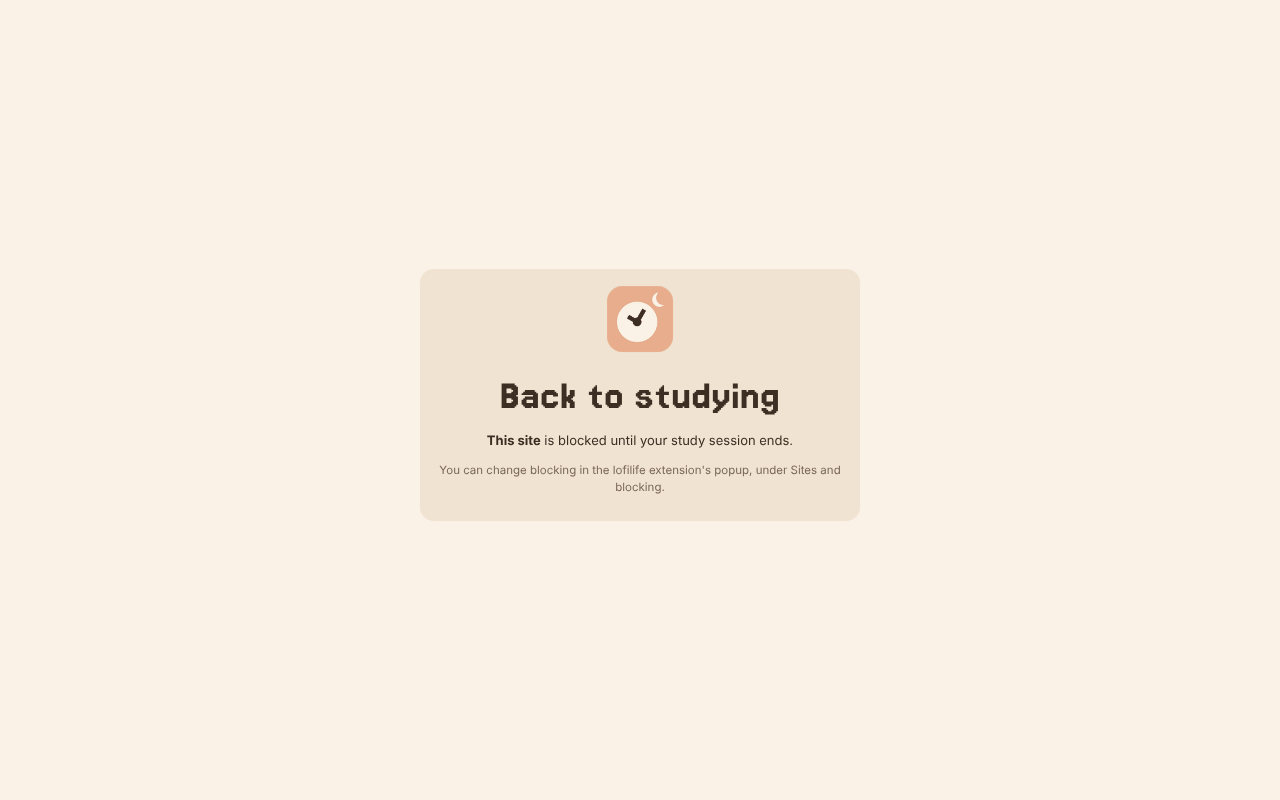
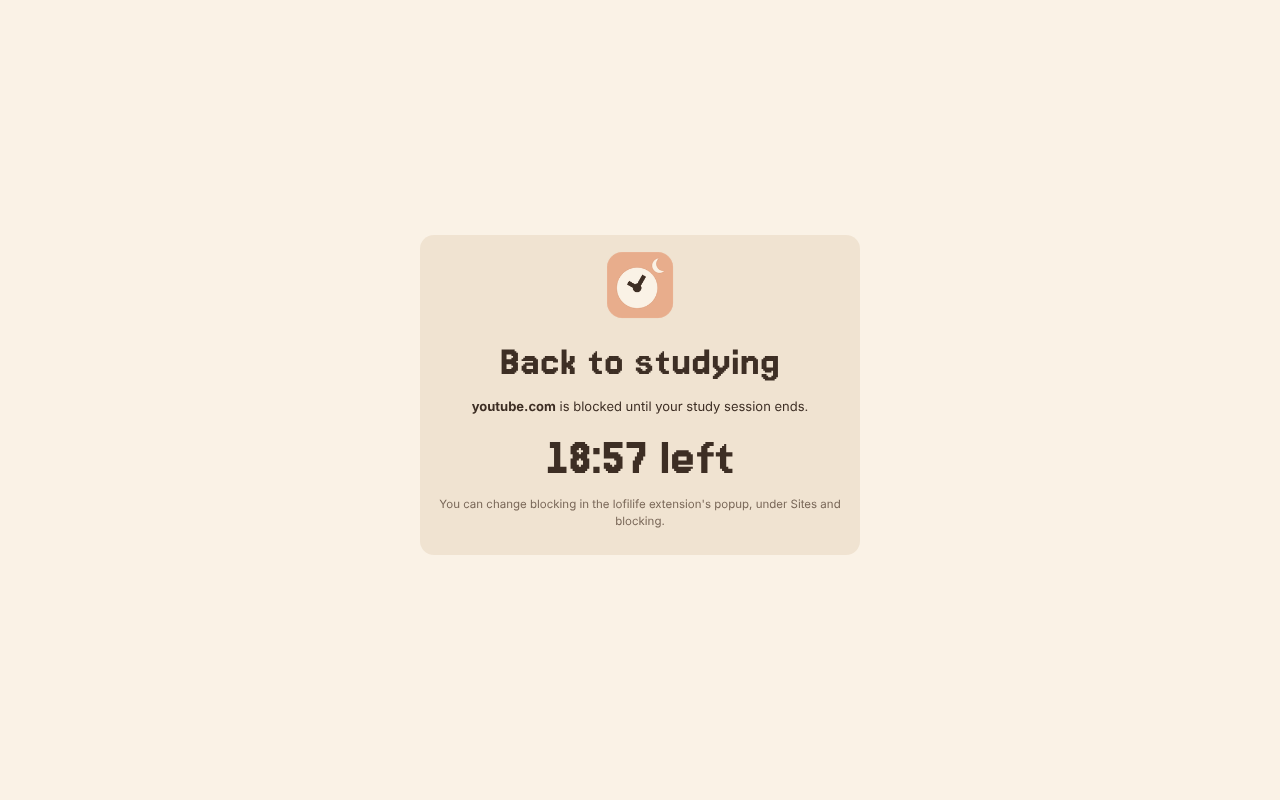
Extension and game connect more reliably: status timeout, ignore non-game replies on 8080, Settings counts popup polls as connected, link back once a blocked session ends

Changed region(s): [[0.3438, 0.3125, 0.6562, 0.6562]]

diff --git a/BrowserExtension/shared.js b/BrowserExtension/shared.js
@@ -23,15 +23,17 @@ function hostOf(url) {
 }
 
 async function send(action, extra = {}) {
-  const res = await fetch(GAME, { method: "POST", body: JSON.stringify({ action, ...extra }) });
+  const res = await fetch(GAME, { method: "POST", body: JSON.stringify({ action, ...extra }), signal: AbortSignal.timeout(2000) });
   return res.text();
 }
 
 // {running, studying, secondsLeft, mode, strict, distracted}, or null when the game isn't running.
 async function gameStatus() {
   try {
-    const res = await fetch(GAME, { cache: "no-store" });
-    return await res.json();
+    // A short timeout so a stuck port reads as offline instead of "Connecting" forever.
+    const res = await fetch(GAME, { cache: "no-store", signal: AbortSignal.timeout(2000) });
+    const status = await res.json();
+    return status && typeof status.secondsLeft === "number" ? status : null; // something else on port 8080 isn't the game
   } catch {
     return null;
   }

diff --git a/BrowserExtension/blocked.html b/BrowserExtension/blocked.html
@@ -11,6 +11,7 @@
     main img { border-radius: 18px; }
     h1 { font-size: 44px; margin: 14px 0 6px; flex: none; }
     .clock { font-size: 56px; }
+    a.button { display: inline-block; margin: 6px 0 4px; padding: 9px 16px; border-radius: 10px; font-weight: 600; text-decoration: none; background: var(--primary); color: var(--on-primary); }
   </style>
 </head>
 <body>
@@ -19,6 +20,7 @@
     <h1>Back to studying</h1>
     <p><strong id="site">This site</strong> is blocked until your study session ends.</p>
     <div id="clock" class="clock" hidden></div>
+    <a id="back" class="button" hidden></a>
     <p class="muted small">You can change blocking in the lofilife extension's popup, under Sites and blocking.</p>
   </main>
   <script src="shared.js"></script>

diff --git a/BrowserExtension/blocked.js b/BrowserExtension/blocked.js
@@ -7,6 +7,10 @@ async function tick() {
   const status = await gameStatus();
   const clock = document.getElementById("clock");
   clock.hidden = !(status && status.running && status.studying);
+  // Once the session ends (or the game closes) the block no longer applies, so offer the way back.
+  const back = document.getElementById("back");
+  back.hidden = !clock.hidden || !/^[a-z0-9.-]+$/i.test(site || "");
+  if (!back.hidden) { back.href = "https://" + site; back.textContent = `Session over. Go to ${site}`; }
   if (clock.hidden) return;
   const s = Math.max(0, status.secondsLeft);
   clock.textContent = `${String(Math.floor(s / 60)).padStart(2, "0")}:${String(s % 60).padStart(2, "0")} left`;

diff --git a/BrowserExtension/popup.html b/BrowserExtension/popup.html
@@ -54,7 +54,7 @@
 
   <section id="offline" class="card offline" hidden>
     <p class="big">Open lofilife to connect</p>
-    <p class="muted small">This extension works with the lofilife desktop game on this computer. Start the game and it connects by itself.</p>
+    <p class="muted small">This extension works with the lofilife desktop game on this computer. Start the game and open your room, and it connects by itself.</p>
   </section>
 
   <details class="card">

diff --git a/Assets/Scripts/ChromeWebEx.cs b/Assets/Scripts/ChromeWebEx.cs
@@ -73,7 +73,8 @@ public class ChromeWebEx : MonoBehaviour
     public const string StoreUrl = "";
     public bool IsListening => _httpListener != null && _httpListener.IsListening;
     public string ListenError { get; private set; } = "";
-    public float LastExtensionMessageAt { get; private set; } = -1; // unscaled time; pings don't count
+    public float LastExtensionMessageAt { get; private set; } = -1; // unscaled time of the last command or status poll; pings don't count
+    private volatile bool _extensionPolled; // set by the listener thread, read on the main thread
     public string LastResult { get; private set; } = "";
 
     // Debugging
@@ -152,6 +153,7 @@ public class ChromeWebEx : MonoBehaviour
                 // Send a response back to the client
                 if (origin != null) response.AddHeader("Access-Control-Allow-Origin", origin);
                 bool get = request.HttpMethod == "GET";
+                if (get && origin != null) _extensionPolled = true; // the popup only reads status, which still means it's connected
                 if (get) response.ContentType = "application/json";
                 string responseString = !get ? "Unity received your request!" : request.Url.AbsolutePath == "/stats" ? _history : _status;
                 byte[] buffer = Encoding.UTF8.GetBytes(responseString);
@@ -175,6 +177,7 @@ public class ChromeWebEx : MonoBehaviour
             LastResult = result;
             if (debugText) debugText.text = result;
         }
+        if (_extensionPolled) { _extensionPolled = false; LastExtensionMessageAt = Time.unscaledTime; }
         if (Time.unscaledTime >= _nextStatus)
         {
             _nextStatus = Time.unscaledTime + 0.5f;

diff --git a/Assets/Scripts/UI/SettingsUI.cs b/Assets/Scripts/UI/SettingsUI.cs
@@ -138,7 +138,7 @@ public class SettingsUI : MonoBehaviour
         }
         float ago = bridge.LastExtensionMessageAt < 0 ? -1 : Time.unscaledTime - bridge.LastExtensionMessageAt;
         if (ago < 0) SetStatus(AccentColor, $"Listening on {ChromeWebEx.Address}. Waiting for the extension's first message.");
-        else SetStatus(XpColor, $"Connected. Last message {Ago(ago)}: {bridge.LastResult}");
+        else SetStatus(XpColor, $"Connected. Last heard from {Ago(ago)}" + (bridge.LastResult.Length > 0 ? $": {bridge.LastResult}" : "."));
     }
 
     private static string Ago(float seconds) =>

diff --git a/BrowserExtension/README.md b/BrowserExtension/README.md
@@ -8,7 +8,7 @@ A Chrome extension that connects your browser to the lofilife desktop game while
 - **Game colours:** the popup uses the game's menu colours and follows Paint > Menus when you change them.
 - **Badge:** the toolbar icon shows the minutes left: red while studying, green on a break, grey when paused, blank when the game isn't running.
 - **Distracting sites** (YouTube, TikTok, Reddit and so on, editable in the popup): during a study session, being on one makes the room in the game fall apart and drains coins until you leave.
-- **Blocking:** the extension can also block distracting sites. It does this during strict focus sessions by default, during every study session if you choose, or never.
+- **Blocking:** the extension can also block distracting sites. It does this during strict focus sessions by default, during every study session if you choose, or never. When the session ends, the blocked page offers a link back to the site.
 - **Study sites** (Google Docs, Notion, Wikipedia and so on): these earn focus XP, at most 1 XP a minute.
 
 ## Install for development
